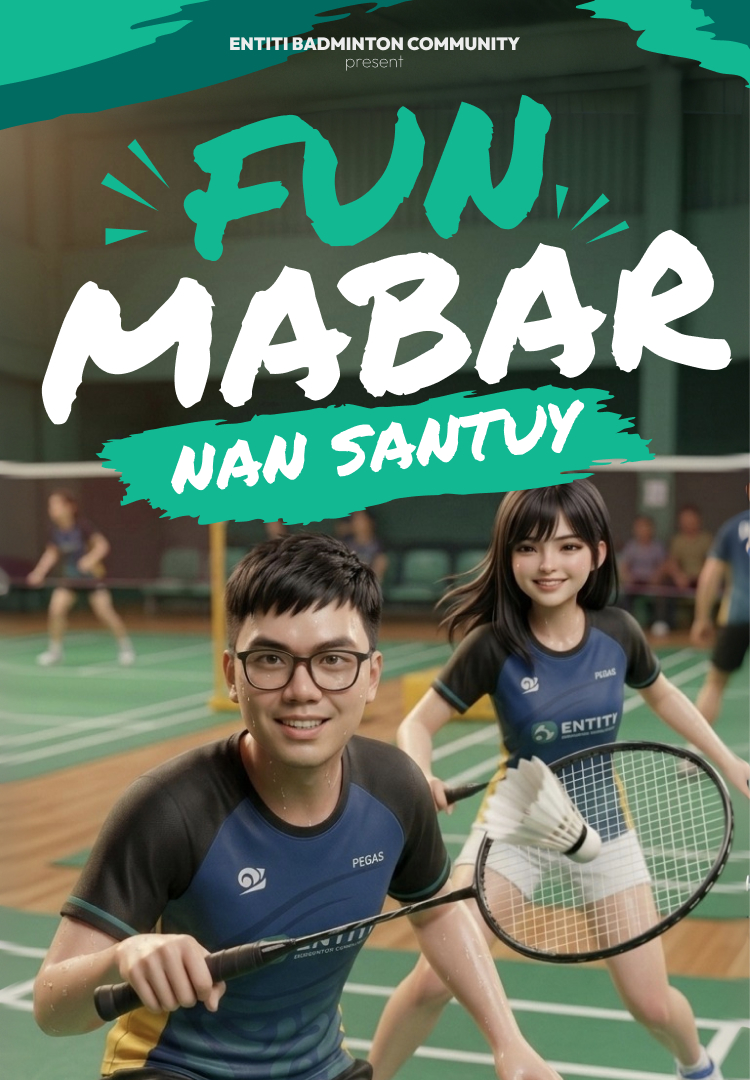
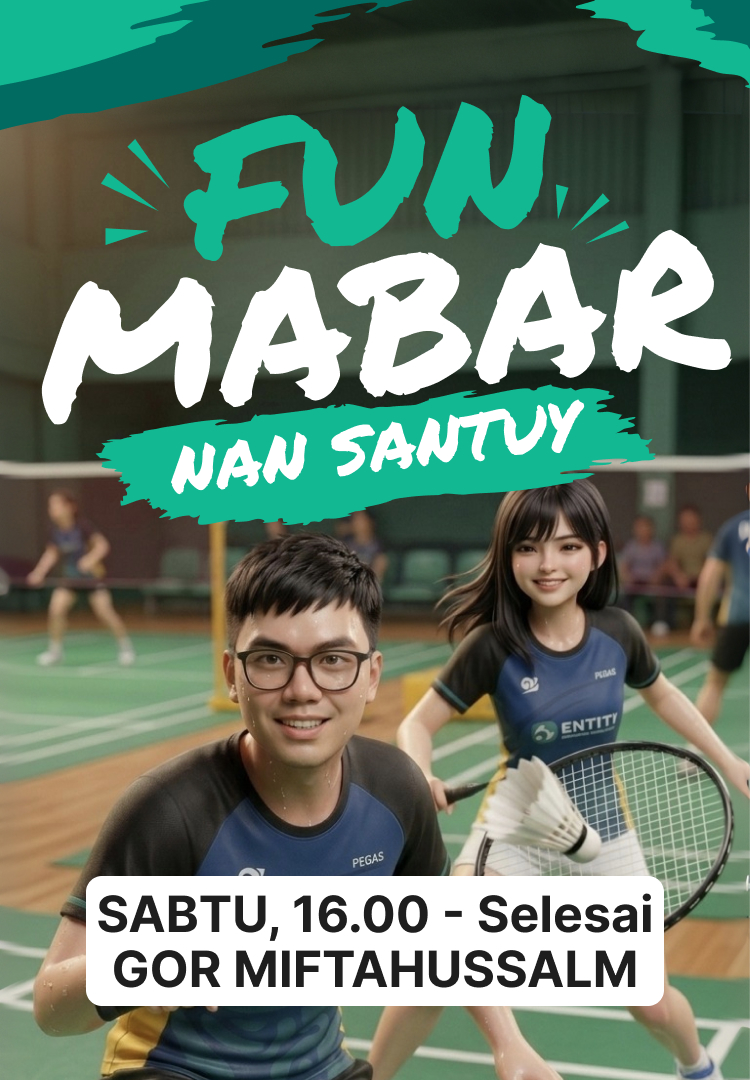
update event dan button

Changed region(s): [[0.092, 0.7944, 0.8893, 0.9472], [0.3067, 0.0306, 0.7053, 0.0611]]

diff --git a/index.html b/index.html
@@ -107,7 +107,8 @@
         <h2>Menu</h2>
         <!-- GANTI LINK TOMBOL DI SINI: ganti href="#" dengan link asli
              (link WA Channel, halaman daftar mabar, halaman kategori) -->
-        <a href="https://forms.gle/5bZogs7YnF5hyape6" class="btn btn-outline" onclick="trackCTAClick('daftar_mabar')" target="_blank" rel="noopener noreferrer">Daftar Mabar</a>
+        <a href="https://forms.gle/5bZogs7YnF5hyape6" class="btn btn-outline" onclick="trackCTAClick('daftar_mabar')" target="_blank" rel="noopener noreferrer">Join Fun Mabar nan Santuy</a>
+        <a href="https://forms.gle/ArfT8Hqq3HW2s6Ai7" class="btn btn-outline" onclick="trackCTAClick('daftar_mabar')" target="_blank" rel="noopener noreferrer">Join Mabar Skuy</a>
         <a href="https://whatsapp.com/channel/0029VbCDMFI5q08iB1iXAd1T" class="btn btn-primary" onclick="trackCTAClick('follow_wa_channel')" target="_blank" rel="noopener noreferrer">
           <img src="assets/ic_baseline-whatsapp.svg">
           Follow WA Channel Sekarang

diff --git a/script.js b/script.js
@@ -48,7 +48,7 @@ var EVENT_SLIDES = [
   },
   {
     // Placeholder — ganti "src" dengan path foto event asli, mis. "assets/event-2.jpg"
-    src: "assets/event-1.jpg",
+    src: "assets/event-2.jpg",
     alt: "Placeholder slide event kedua",
     downloadName: "entiti-event-2.jpg"
   }